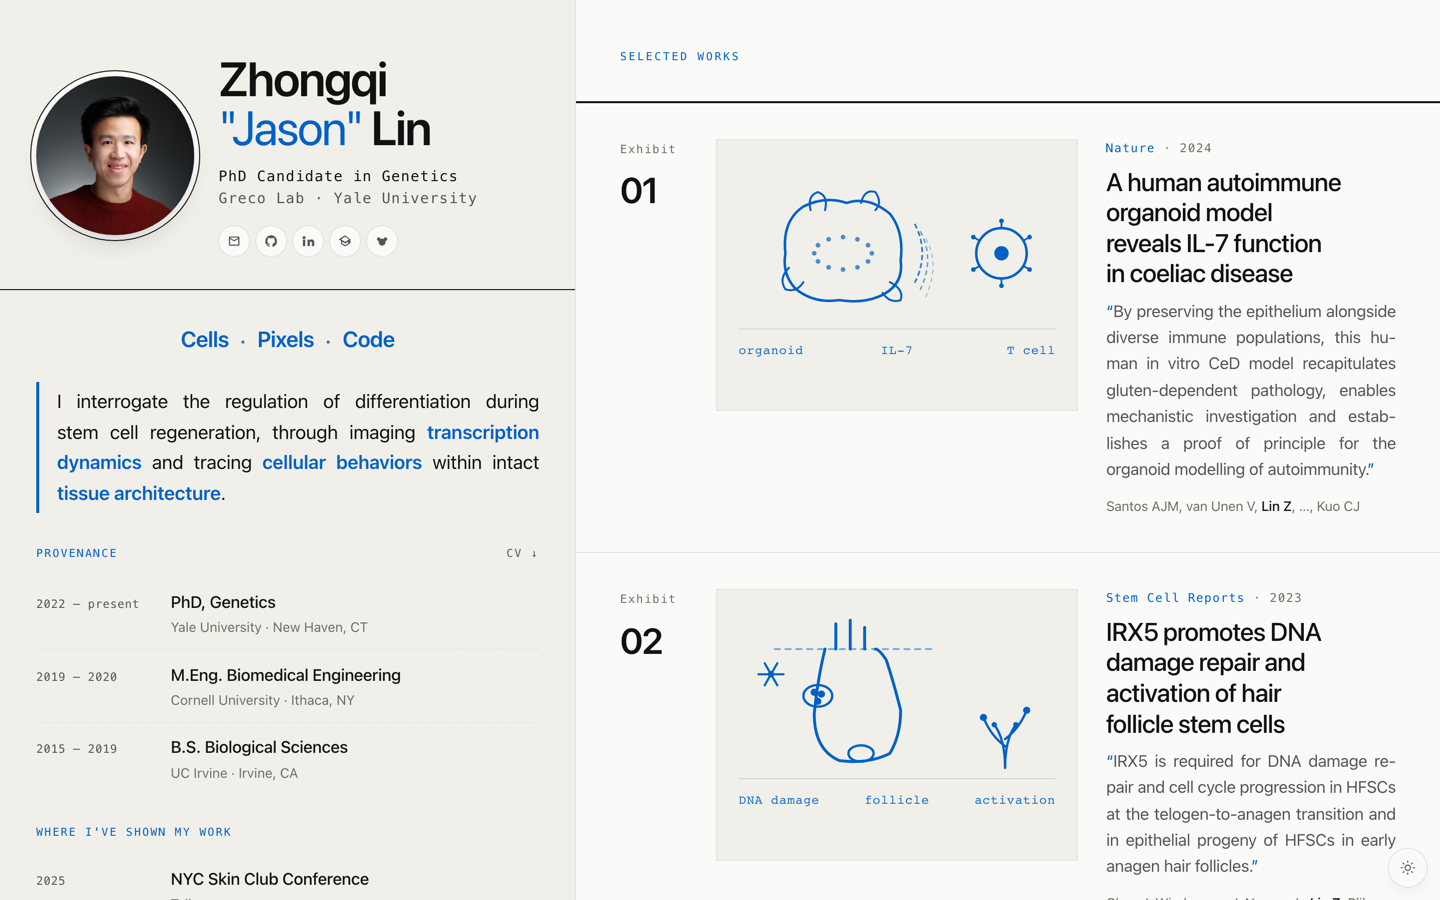
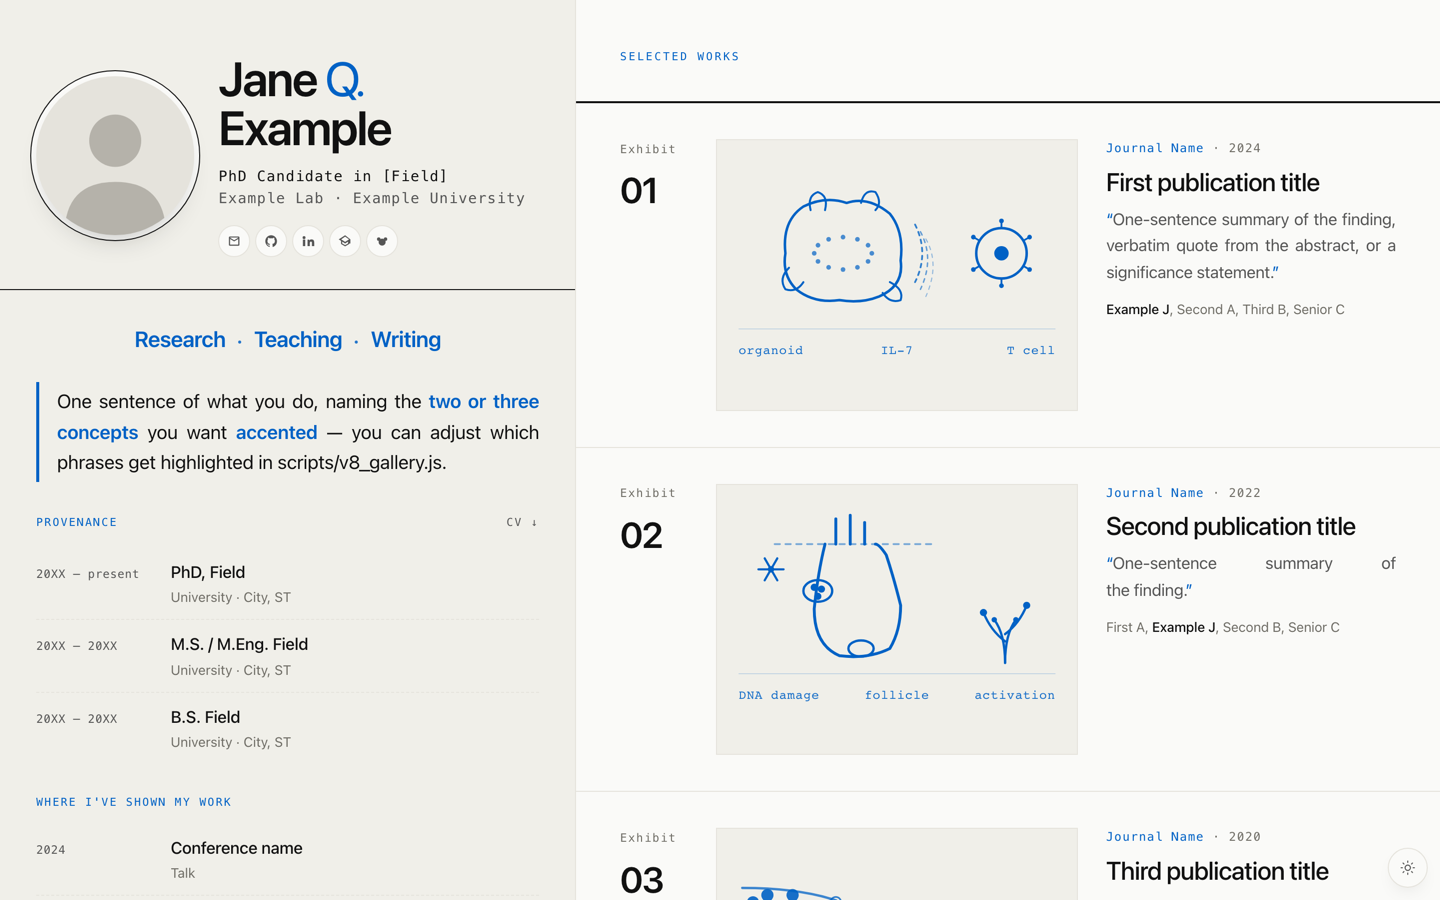
Genericize remaining Jason-specific strings, re-shoot preview
The hardcoded 'Zhongqi Lin' h1, the 'Stem Cell Biologist ∩ Microscopist ∩ Data
Scientist' triad, and Jason-specific bioHtml replaces were leaking into forks.
- h1 now renders ${J.name} (data-driven); placeholder uses <em> on the
  middle initial to demo the accent-color feature.
- Triad: three single-word placeholders ('Research · Teaching · Writing')
  matching the '·-separated pillars' aesthetic.
- bioHtml accent phrases updated to match the template's placeholder bio.
- Preview screenshot re-taken from localhost rendering the template content
  (not from zhongqilin.org), so the README demo now shows what a forker
  starts with, not what Jason deployed.

diff --git a/scripts/v8_gallery.js b/scripts/v8_gallery.js
@@ -222,11 +222,11 @@
   const shown = J.talks.map(t=>`<div class="row"><span class="y">${t.year}</span><span class="w"><b>${t.what}</b><em>${t.note}</em></span></div>`).join('');
   const skills = J.skills.map((s,i)=>`<div class="skill"><span class="n">S.${String(i+1).padStart(2,'0')}</span><span class="t">${s}</span></div>`).join('');
 
-  // Bio highlight for the left block
+  // Bio highlight: wrap specific phrases in <b> so they pick up the accent color.
+  // Match the strings below to phrases you've used in J.bio (data.js).
   const bioHtml = J.bio
-    .replace('transcription dynamics','<b>transcription dynamics</b>')
-    .replace('cellular behaviors','<b>cellular behaviors</b>')
-    .replace('tissue architecture','<b>tissue architecture</b>');
+    .replace('two or three concepts','<b>two or three concepts</b>')
+    .replace('accented','<b>accented</b>');
 
   root.innerHTML=`<style>${css}</style><div class="vF"><div class="stage">
     <div class="plate">
@@ -235,7 +235,7 @@
         <div class="who" style="margin-top:.9rem">
           <div class="pic" aria-hidden="true"></div>
           <div class="who-text">
-            <h1>Zhongqi <em>"Jason"</em> Lin</h1>
+            <h1>${J.name}</h1>
             <div class="role"><b>${J.role}</b><br>${J.lab} · ${J.institution}</div>
             <div class="social" aria-label="Contact links">
               <a href="${J.links.email}" aria-label="Email" title="Email"><svg viewBox="0 0 24 24"><path d="M3 5.5A1.5 1.5 0 0 1 4.5 4h15A1.5 1.5 0 0 1 21 5.5v13a1.5 1.5 0 0 1-1.5 1.5h-15A1.5 1.5 0 0 1 3 18.5v-13zm2 .3v.4l7 4.2 7-4.2v-.4H5zm14 2.56-6.47 3.88a1 1 0 0 1-1.06 0L5 8.36V18h14V8.36z"/></svg></a>
@@ -249,12 +249,12 @@
       </div>
 
       <div class="subject" data-rise style="--d:140ms">
-        <div class="triad" role="figure" aria-label="At the intersection of stem cell biology, microscopy, and data science">
-          <span class="r"><em>Stem Cell</em> Biologist</span>
-          <span class="op">∩</span>
-          <span class="r"><em>Microscop</em>ist</span>
-          <span class="op">∩</span>
-          <span class="r"><em>Data</em> Scientist</span>
+        <div class="triad" role="figure" aria-label="Research, Teaching, Writing">
+          <span class="r"><em>Research</em></span>
+          <span class="op">·</span>
+          <span class="r"><em>Teaching</em></span>
+          <span class="op">·</span>
+          <span class="r"><em>Writing</em></span>
         </div>
       </div>
 

diff --git a/scripts/data.js b/scripts/data.js
@@ -2,7 +2,9 @@
 // Everything the renderer consumes lives here; no changes to v8_gallery.js are
 // needed unless you want to restructure the layout.
 window.JASON = {
-  name: 'Dr. Jane Q. Example',
+  // The h1 renders this string verbatim — wrap a nickname or initial in <em>
+  // to pick up the accent color (see .vF .plate h1 em in v8_gallery.js).
+  name: 'Jane <em>Q.</em> Example',
   shortName: 'Jane Example',
   email: 'jane.example@your-institution.edu',
   phone: '',
